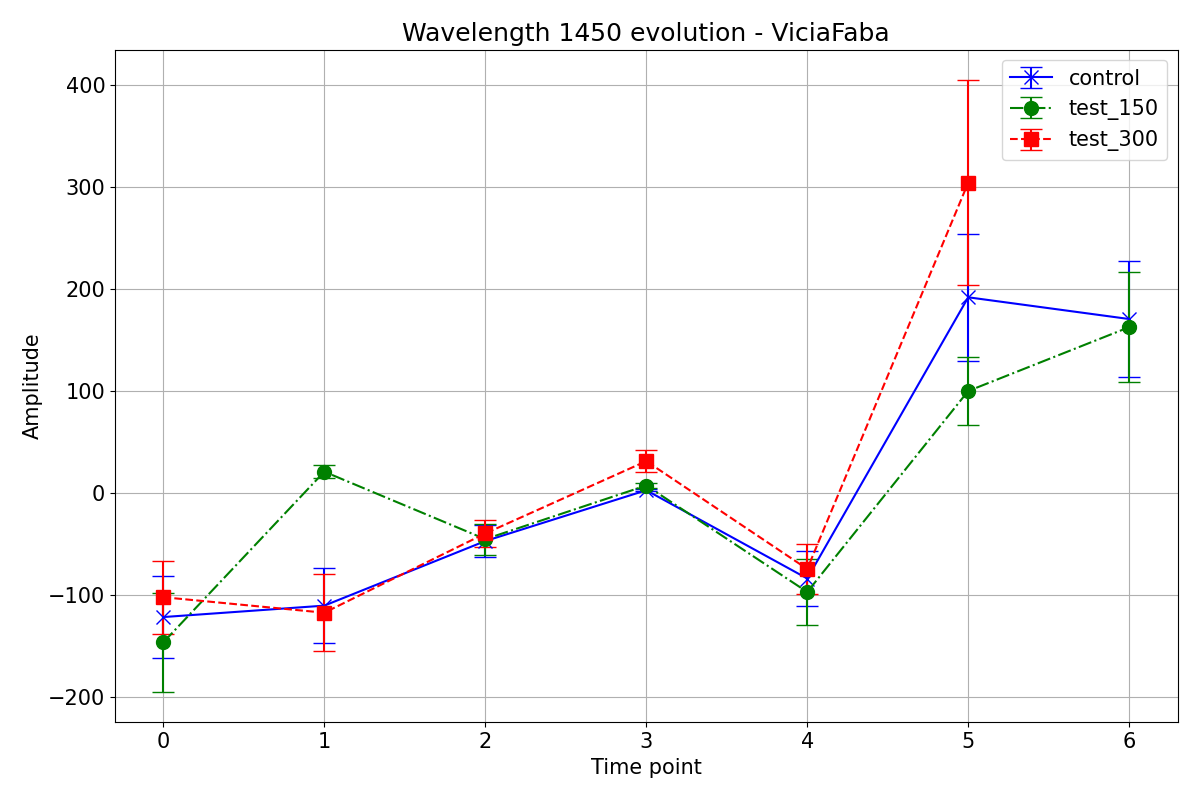
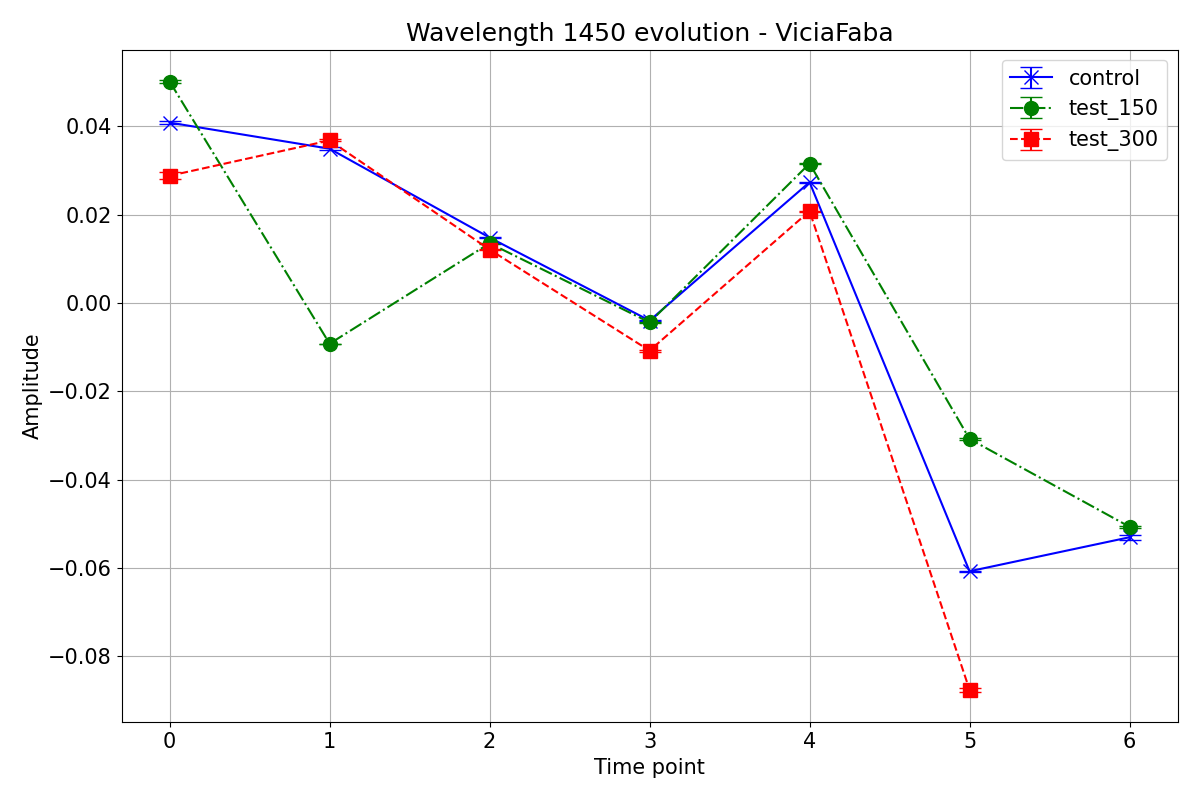
Work on beans data

diff --git a/analysis_script/visualize_MiFlora_beans.py b/analysis_script/visualize_MiFlora_beans.py
@@ -21,7 +21,7 @@ plant_to_examine = 'PhaseolusVulgaris'
 plant_to_examine = 'ViciaFaba'
 
 t_list = [0, 1, 2, 3, 4, 5, 6]
-# t_list = [5]
+# t_list = [0]
 
 type_data_to_plot = 'MI_MOISTURE'
 type_data_to_plot = 'MI_CONDUCTIVITY'
@@ -34,7 +34,7 @@ plot_config = dict(
 
 mi_flora_to_use = None
 mi_flora_to_use = 'Green'
-mi_flora_to_use = 'White'
+# mi_flora_to_use = 'White'
 
 # - - - - - - - - - - - - - - - - - - - - - - - - - - - - - - - - - 
 #%% Get the data
@@ -44,7 +44,7 @@ if plant_to_examine == 'PhaseolusVulgaris':
     timestamp_conversion_mode  = [1, 1, 1, 1, 1, 2, 1]
 else : 
     plant_group_list = ['control', 'test_150', 'test_300']
-    plant_group_list = ['test_150']
+    # plant_group_list = ['test_150']
     timestamp_conversion_mode = [2, 1, 1, 1, 1, 2, 1]
 
 
@@ -73,7 +73,8 @@ for i in range(len(t_list)):
         id_device_list = list(set(data_MiFlora_full['DEVICEID']))
         idx_id_device = 0 if mi_flora_to_use in id_device_list[0] else 1
         data_MiFlora_full = data_MiFlora_full[data_MiFlora_full['DEVICEID'] == id_device_list[idx_id_device]]
-
+    
+    print("Average time difference MiFlora/Nirs")
     for plant_group in plant_group_list:
         data_beans = data_beans_full[data_beans_full['plant'] == plant_to_examine]
         data_beans = data_beans[data_beans['test_control'] == plant_group]
@@ -86,6 +87,8 @@ for i in range(len(t_list)):
         average_mi_flora_data = data_MiFlora[type_data_to_plot].to_numpy(dtype = float).mean()
         mi_flora_data_per_plant_group[plant_group].append(average_mi_flora_data)
         # print(average_conductivity)
+
+        print("\t{}\t: {}±{}".format(plant_group, round(data_MiFlora['Difference_with_paired_NIRS_timestamp'].mean(), 2), round(data_MiFlora['Difference_with_paired_NIRS_timestamp'].std(), 2)))
 
 
 # - - - - - - - - - - - - - - - - - - - - - - - - - - - - - - - - - 

diff --git a/analysis_script/water_plot_beans/single_wavelength_average_per_group_V2.py b/analysis_script/water_plot_beans/single_wavelength_average_per_group_V2.py
@@ -25,6 +25,8 @@ t_list = [0, 1, 2, 3, 4, 5, 6]
 use_standardization = False
 use_control_group_to_calibrate = False
 norm_type_with_control_group = 2 # Used only if use_control_group_to_calibrate == True
+
+compute_absorbance = True
 use_sg_preprocess = True
 
 plot_config = dict(
@@ -36,7 +38,7 @@ plot_config = dict(
 use_shaded_area = False
 
 wavelength_to_plot = "1450"
-# wavelength_to_plot = "1750"
+wavelength_to_plot = "1360"
 
 # - - - - - - - - - - - - - - - - - - - - - - - - - - - - - - - - - 
 
@@ -79,6 +81,8 @@ for i in range(len(t_list)):
                 # Normalize data
                 if use_standardization  : data_lamp_power  = preprocess.normalize_standardization(data_lamp_power, divide_mems = True)
                 if use_control_group_to_calibrate : data_lamp_power  = preprocess.normalize_with_control_group(data_lamp_power, norm_type = norm_type_with_control_group)
+
+                if compute_absorbance : data_lamp_power = preprocess.R_A(data_lamp_power) 
                 if use_sg_preprocess : data_lamp_power  = preprocess.sg(data_lamp_power)
 
                 # Get wavelength
